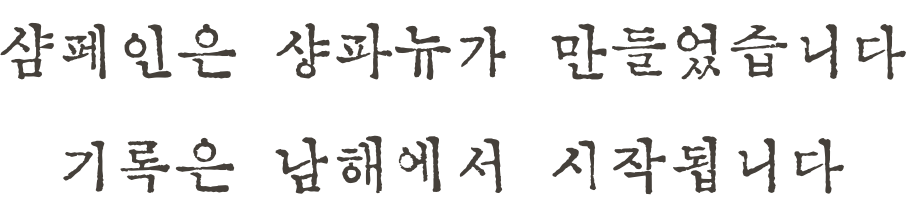
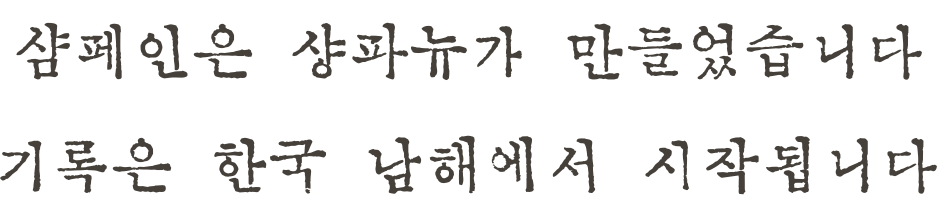
feat(landing): 메인페이지에 "한국 남해" 노출 — 히어로 좌표·카운터 라벨·메이커 부제
- 히어로 우측 하단 서명 `Written by the Sea.` → `한국 남해 34°N · 126°E` (4로케일, 모바일도 표시, DM Mono 300 13/12px)
- The Living Record 카운터 `일째` 오른쪽에 `한국 남해` 라벨 (J1950 PNG 17px@1x, 하단 여백 11px@3x를 counter-unit.png와 맞춰 베이스라인 정렬, opacity .7)
- the maker 부제 2행 `기록은 한국 남해에서 시작됩니다` (J1950 PNG 재생성 937×216, CSS 폭 302→312 / 211→218)
- Paper Home Page 데스크톱·모바일 아트보드 선반영 후 실측값 이식

Claude-Session: https://claude.ai/code/session_01SscReWddrpbpip93RBQYdz

diff --git a/src/app/globals.css b/src/app/globals.css
@@ -1047,17 +1047,17 @@ input:focus-visible,
 
 /* 스크롤 힌트 */
 
-/* 모토 서명 — 우하단, 푸터와 동일 필기체(Mrs Saint Delafield) */
+/* 좌표 서명 — 우하단, 계측 라인과 동일 모노(DM Mono) */
 .s-void__signature {
   position: absolute;
   z-index: 3;
   right: 80px;
   bottom: 40px;
-  font-family: var(--font-motto);
-  font-weight: 400;
-  font-size: 22px;
-  letter-spacing: 0.04em;
-  line-height: 26px;
+  font-family: var(--font-mono);
+  font-weight: 300;
+  font-size: 13px;
+  letter-spacing: 0.06em;
+  line-height: 16px;
   color: rgba(241, 239, 235, 0.82);
 }
 
@@ -1148,9 +1148,11 @@ input:focus-visible,
     font-size: 20px;
   }
 
-  /* 모바일은 히어로 여백이 좁아 코너 서명 숨김 (푸터 모토로 대체) */
+  /* 모바일 좌표 서명 — 여백이 좁아 안쪽으로 붙이고 한 단계 축소 */
   .s-void__signature {
-    display: none;
+    right: 20px;
+    bottom: 54px;
+    font-size: 12px;
   }
 }
 
@@ -1254,6 +1256,16 @@ input:focus-visible,
   display: block;
   width: 59px;
   height: auto;
+  transform: translateY(7px);
+}
+
+/* '한국 남해' 라벨 (J1950 → PNG) — '일째' 옆, 단위의 절반 크기.
+   두 PNG는 잉크 아래 여백이 같아서(원본 11px @3x) 같은 transform이면 하단선이 한 줄에 놓인다. */
+.s-living__counter-place-img {
+  display: block;
+  width: 76px;
+  height: auto;
+  opacity: 0.7;
   transform: translateY(7px);
 }
 
@@ -1444,6 +1456,10 @@ input:focus-visible,
 
   .s-living__counter-unit {
     width: 35px;
+  }
+
+  .s-living__counter-place-img {
+    width: 58px;
   }
 
   /* 모바일에선 클로징 문장 미노출 */
@@ -2894,7 +2910,7 @@ input:focus-visible,
 /* 서브타이틀 텍스트 이미지 (J1950 → PNG) */
 .s-maker__subtitle-img {
   display: block;
-  width: 302px;
+  width: 312px;
   height: auto;
 }
 
@@ -3138,7 +3154,7 @@ input:focus-visible,
     line-height: 24px;
   }
 
-  .s-maker__subtitle-img { width: 211px; }
+  .s-maker__subtitle-img { width: 218px; }
 
   .s-maker__viewport {
     height: 520px;
@@ -4950,6 +4966,15 @@ html:has(.b-paper) body {
   letter-spacing: 0.02em;
   color: var(--color-amber);
 }
+/* 카운터 장소 라벨 (단위 옆) — 단위의 절반 크기 */
+.s-living__counter-place-text {
+  font-family: var(--font-heading);
+  font-weight: 400;
+  font-size: 15px;
+  letter-spacing: 0.02em;
+  color: var(--color-amber);
+  opacity: 0.7;
+}
 
 /* S3 The First Record — 헤드라인 / 클로징 */
 .s-first__headline .s-first__headline-text {
@@ -4998,6 +5023,7 @@ html:has(.b-paper) body {
 @media (max-width: 768px) {
   .s-living__copy .s-living__copy-text { font-size: 26px; max-width: 300px; }
   .s-living__counter-unit-text { font-size: 24px; }
+  .s-living__counter-place-text { font-size: 12px; }
   .s-first__headline .s-first__headline-text { font-size: 28px; max-width: 320px; }
   .s-first__closing-line .s-first__closing-text { font-size: 23px; max-width: 300px; }
   .s-col__sub .s-col__sub-text { font-size: 19px; max-width: 320px; }
@@ -5018,6 +5044,7 @@ html:has(.b-paper) body {
 .s-void__brand-name-text,
 .s-living__copy .s-living__copy-text,
 .s-living__counter-unit-text,
+.s-living__counter-place-text,
 .s-first__headline .s-first__headline-text,
 .s-first__closing-line .s-first__closing-text,
 .s-col__sub .s-col__sub-text,
@@ -5037,6 +5064,7 @@ html[lang="ja"] .s-void__h1-text,
 html[lang="ja"] .s-void__brand-name-text,
 html[lang="ja"] .s-living__copy-text,
 html[lang="ja"] .s-living__counter-unit-text,
+html[lang="ja"] .s-living__counter-place-text,
 html[lang="ja"] .s-first__headline-text,
 html[lang="ja"] .s-first__closing-text,
 html[lang="ja"] .s-col__sub-text,

diff --git a/src/components/sections/TheLivingRecordSection.tsx b/src/components/sections/TheLivingRecordSection.tsx
@@ -181,6 +181,19 @@ function DaysCounter({
         ) : (
           <span className="s-living__counter-unit-text">{dict.counterUnit}</span>
         )}
+        {/* 측정 장소 — 단위의 절반 크기. ko는 '일째'와 같은 J1950 PNG */}
+        {locale === "ko" ? (
+          <Image
+            src="/text/counter-place.png"
+            alt={dict.place}
+            width={76}
+            height={25}
+            unoptimized
+            className="s-living__counter-place-img"
+          />
+        ) : (
+          <span className="s-living__counter-place-text">{dict.place}</span>
+        )}
       </div>
       {/* 지금 이 순간의 측정값 (카운팅 + 우측 라이브 인디케이터) */}
       <div className="s-living__log">

diff --git a/src/components/sections/HeroSection.tsx b/src/components/sections/HeroSection.tsx
@@ -94,8 +94,8 @@ export default function HeroSection({
         {brand}
       </div>
 
-      {/* 모토 서명 — 우하단 (푸터와 수미상관). 고정 모토라 전 로케일 공통 */}
-      <span className="s-void__signature" aria-hidden="true">Written by the Sea.</span>
+      {/* 좌표 서명 — 우하단. 숙성 지점을 밝히는 내용이라 로케일별 문구 */}
+      <span className="s-void__signature">{dict.signature}</span>
 
       {/* Descent Veil — 수면→심해 하강 전환 막. 기본 opacity 0,
           데스크톱에서 DescentEffect(GSAP 스크럽)가 제어 */}

diff --git a/src/components/sections/TheMakerSection.tsx b/src/components/sections/TheMakerSection.tsx
@@ -125,7 +125,7 @@ export default function TheMakerSection({
             <Image
               src="/text/maker-subtitle.png"
               alt={dict.subtitle}
-              width={302}
+              width={312}
               height={72}
               unoptimized
               className="s-maker__subtitle-img"
